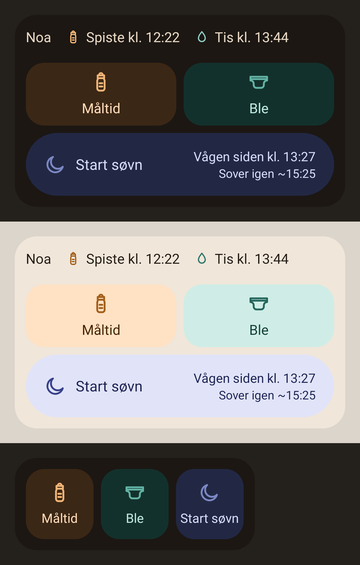
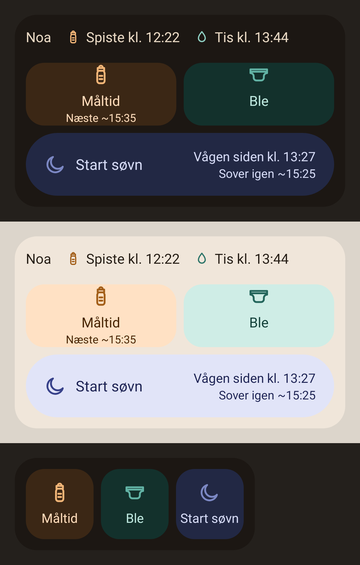
Show the feed and poop forecasts on the 4x2 widget and the watch
The 4x2 widget puts "Next ~15:35" under Feed and, when poop is regular,
"Poop ~18:00" under Diaper (both buttons keep the line so the icons stay
aligned). The watch adds a "Next feed" card while awake and a "Next feed
in 2h 45m" line on the Last fed card while asleep. Also adds the design
notes for the widget and watch forecasts to V1_ADDITIONS and DESIGN_SPEC.

Claude-Session: https://claude.ai/code/session_01KD7sVhz9GtcohHCu3rA1aR

diff --git a/app/src/main/kotlin/com/ffmathy/pooparazzi/phone/widget/LogWidget.kt b/app/src/main/kotlin/com/ffmathy/pooparazzi/phone/widget/LogWidget.kt
@@ -1,5 +1,6 @@
 package com.ffmathy.pooparazzi.phone.widget
 
+import androidx.annotation.StringRes
 import android.content.Context
 import androidx.compose.runtime.Composable
 import androidx.compose.ui.graphics.Color
@@ -303,16 +304,23 @@ private fun LogButtons(
         listOf(feedLabel, diaperLabel).all { measure.fits(it, LabelSize, layout.buttonWidth - 8.dp) } -> FaceStyle.Regular
         else -> FaceStyle.Compact
     }
+    // What the last week expects next (V1_ADDITIONS §9), under the label of the regular face only. When either button
+    // has a line, both keep its room, so the icons stay aligned.
+    val feedNext = snapshot.feedForecast?.takeIf { style == FaceStyle.Regular }
+    val poopNext = snapshot.poopForecast?.takeIf { style == FaceStyle.Regular }
+    val sub = feedNext != null || poopNext != null
+    fun described(@StringRes name: Int, spoken: String?) =
+        strings.forBaby(strings.string(name), baby).let { if (spoken == null) it else strings.string(R.string.spoken_pair, it, spoken) }
     Row(modifier) {
         val cell = GlanceModifier.defaultWeight().fillMaxHeight()
         val feed = colors.feed
-        SheetButton(HomeLaunch.Feed, feed, strings.forBaby(strings.string(R.string.widget_cd_log_feed), baby), cell) {
-            ButtonFace(XDrawables.feed, feed.strong, feedLabel, feed.onContainer, style)
+        SheetButton(HomeLaunch.Feed, feed, described(R.string.widget_cd_log_feed, feedNext?.let(strings::feedForecastSpoken)), cell) {
+            ButtonFace(XDrawables.feed, feed.strong, feedLabel, feed.onContainer, style, sub = feedNext?.let(strings::feedForecast) ?: "\u00A0".takeIf { sub })
         }
         Spacer(GlanceModifier.width(8.dp))
         val diaper = colors.diaper
-        SheetButton(HomeLaunch.Diaper, diaper, strings.forBaby(strings.string(R.string.widget_cd_log_diaper), baby), cell) {
-            ButtonFace(XDrawables.diaper, diaper.strong, diaperLabel, diaper.onContainer, style)
+        SheetButton(HomeLaunch.Diaper, diaper, described(R.string.widget_cd_log_diaper, poopNext?.let(strings::poopForecastSpoken)), cell) {
+            ButtonFace(XDrawables.diaper, diaper.strong, diaperLabel, diaper.onContainer, style, sub = poopNext?.let(strings::poopForecast) ?: "\u00A0".takeIf { sub })
         }
     }
 }
@@ -331,7 +339,7 @@ private val CompactTopSpace = 10.dp
  * the regular face's.
  */
 @Composable
-private fun ButtonFace(icon: Int, iconColor: Color?, label: String, labelColor: Color, style: FaceStyle) {
+private fun ButtonFace(icon: Int, iconColor: Color?, label: String, labelColor: Color, style: FaceStyle, sub: String? = null) {
     Column(horizontalAlignment = Alignment.CenterHorizontally, verticalAlignment = Alignment.CenterVertically) {
         if (style == FaceStyle.Compact) Spacer(GlanceModifier.height(CompactTopSpace))
         WidgetIcon(icon, iconColor, if (style == FaceStyle.Compact) 20.dp else 24.dp)
@@ -345,6 +353,7 @@ private fun ButtonFace(icon: Int, iconColor: Color?, label: String, labelColor: 
                 align = TextAlign.Center,
                 modifier = GlanceModifier.padding(horizontal = 4.dp),
             )
+            if (sub != null) WidgetText(sub, labelColor, 12.sp, maxLines = 1, align = TextAlign.Center)
         }
     }
 }

diff --git a/app/src/main/kotlin/com/ffmathy/pooparazzi/phone/widget/WidgetSnapshot.kt b/app/src/main/kotlin/com/ffmathy/pooparazzi/phone/widget/WidgetSnapshot.kt
@@ -26,6 +26,7 @@ import java.time.ZoneId
  * @property babies all babies, in order; with two or more the widgets name the current one ([babyId]).
  * @property sleepForecast the expected wake-up while asleep, else the expected next sleep (V1_ADDITIONS §9); null when
  *   the last week cannot predict it.
+ * @property feedForecast the expected next feed; [poopForecast] the expected next poop, when poop is regular enough.
  */
 data class WidgetSnapshot(
     val night: Boolean,
@@ -40,6 +41,8 @@ data class WidgetSnapshot(
     val babies: List<Baby> = listOf(Baby(Baby.FIRST_ID)),
     val babyId: String = babies.first().id,
     val sleepForecast: Expected? = null,
+    val feedForecast: Expected? = null,
+    val poopForecast: Expected? = null,
 ) {
     val asleep: Boolean get() = runningSleepStart != null
 
@@ -70,6 +73,7 @@ data class WidgetSnapshot(
             allEntries: List<Entry> = entries,
         ): WidgetSnapshot {
             val summary = summarize(entries, now, zone)
+            val week = forecast(summary)
             val sleep = summary.runningSleep
             val anyAsleep = sleep != null || allEntries.any { it.isSleep && it.isRunning }
             return WidgetSnapshot(
@@ -86,7 +90,9 @@ data class WidgetSnapshot(
                 notice = memo.notice?.takeIf { it.expiresAtMillis > now },
                 babies = settings.babies,
                 babyId = settings.selectedBaby.id,
-                sleepForecast = forecast(summary).sleep,
+                sleepForecast = week.sleep,
+                feedForecast = week.feed,
+                poopForecast = week.poop,
             )
         }
 
@@ -104,10 +110,12 @@ data class WidgetSnapshot(
 }
 
 /**
- * When the sleep forecast next changes without any new data: once its time has passed, the week's stretches that are
- * still longer give a later estimate (or "soon").
+ * When a forecast next changes without any new data: once its time has passed, the week's stretches that are still
+ * longer give a later estimate (or "soon").
  */
-fun WidgetSnapshot.forecastExpiry(now: Long): Long? = sleepForecast?.takeIf { !it.overdue }?.atMillis?.takeIf { it > now }
+fun WidgetSnapshot.forecastExpiry(now: Long): Long? = listOfNotNull(sleepForecast, feedForecast, poopForecast)
+    .filter { !it.overdue && it.atMillis > now }
+    .minOfOrNull { it.atMillis }
 
 /** When the widgets next change without any new data: the receipt or notice expiry, if any. */
 fun WidgetMemo.nextExpiry(now: Long): Long? =

diff --git a/wear/src/main/kotlin/com/ffmathy/pooparazzi/wear/main/MainScreen.kt b/wear/src/main/kotlin/com/ffmathy/pooparazzi/wear/main/MainScreen.kt
@@ -722,13 +722,36 @@ private fun statusCards(state: MainUiState, f: Formatters): List<CardModel> {
     val lastDiaperSpoken = stringResource(CoreR.string.spoken_last_diaper)
     val bothIcon = rememberBothIcon(events.pee.strong, events.poop.strong)
 
+    val feedForecast = state.feedForecast
     if (state.mode == MainMode.ASLEEP) {
         state.lastFeed?.let { feed ->
+            // The expected next feed as the card's third line (V1_ADDITIONS §9).
+            val next = feedForecast?.let { expected ->
+                expected.remainingMillis(now)
+                    ?.let { stringResource(CoreR.string.forecast_next_feed_in, f.duration.format(it)) to stringResource(CoreR.string.forecast_next_feed_in, f.duration.spoken(it)) }
+                    ?: stringResource(CoreR.string.forecast_next_feed_soon).let { it to it }
+            }
+            val spoken = f.spokenAgo(lastFeedSpoken, spokenFeedType(feed), feed.startMillis, now)
             cards += CardModel(
                 "last-feed", feed, TimeField.START, XIcons.forFeedType(feed.feedType), events.feed.strong,
                 lastFedWord, f.agoAndClock(feed.startMillis, now) + feedSideSuffix(feed),
-                f.spokenAgo(lastFeedSpoken, spokenFeedType(feed), feed.startMillis, now),
+                next?.let { stringResource(R.string.spoken_pair, spoken, it.second) } ?: spoken,
+                next?.first,
             )
+        }
+    } else {
+        // Idle, the hero shows the last feed; the expected next one gets its own card, first (V1_ADDITIONS §9). It opens
+        // the last feed, like the hero.
+        val feed = state.lastFeed
+        if (feed != null && feedForecast != null) {
+            val title = stringResource(CoreR.string.forecast_next_feed)
+            val remaining = feedForecast.remainingMillis(now)
+            val clock = f.clock.format(feedForecast.roundedAtMillis, f.zone)
+            val detail = remaining?.let { stringResource(CoreR.string.forecast_in_at, f.duration.format(it), clock) }
+                ?: stringResource(CoreR.string.forecast_soon_word)
+            val spoken = remaining?.let { stringResource(CoreR.string.forecast_next_feed_in, f.duration.spoken(it)) }
+                ?: stringResource(CoreR.string.forecast_next_feed_soon)
+            cards += CardModel("next-feed", feed, TimeField.START, XIcons.feed, events.feed.strong, title, detail, spoken)
         }
     }
     if (state.runningSleep == null) {

diff --git a/app/src/main/kotlin/com/ffmathy/pooparazzi/phone/widget/WidgetUi.kt b/app/src/main/kotlin/com/ffmathy/pooparazzi/phone/widget/WidgetUi.kt
@@ -114,6 +114,21 @@ internal class WidgetStrings(private val context: Context, private val zone: Zon
         else -> string(if (asleep) CoreR.string.forecast_wakes_at else CoreR.string.forecast_next_sleep_at, time(expected.roundedAtMillis))
     }
 
+    /** Under Feed: "Next ~15:35" ("Next soon" when due). */
+    fun feedForecast(expected: Expected): String =
+        if (expected.overdue) string(CoreR.string.forecast_feed_soon_short) else string(CoreR.string.forecast_feed_at, time(expected.roundedAtMillis))
+
+    /** Under Diaper: "Poop ~18:00" ("Poop soon" when due). */
+    fun poopForecast(expected: Expected): String =
+        if (expected.overdue) string(CoreR.string.forecast_poop_soon_short) else string(CoreR.string.forecast_poop_at, time(expected.roundedAtMillis))
+
+    /** TalkBack: "next feed expected around 15:35" / "next poop expected around 18:00", or the "soon" line. */
+    fun feedForecastSpoken(expected: Expected): String =
+        if (expected.overdue) string(CoreR.string.forecast_next_feed_soon) else string(CoreR.string.spoken_forecast_feed_at, time(expected.roundedAtMillis))
+
+    fun poopForecastSpoken(expected: Expected): String =
+        if (expected.overdue) poopForecast(expected) else string(CoreR.string.spoken_forecast_poop_at, time(expected.roundedAtMillis))
+
     /** TalkBack: "expected to wake around 05:30". */
     fun sleepForecastSpoken(expected: Expected, asleep: Boolean): String = when {
         expected.overdue -> sleepForecast(expected, asleep)

diff --git a/app/src/test/kotlin/com/ffmathy/pooparazzi/phone/WidgetSnapshotTest.kt b/app/src/test/kotlin/com/ffmathy/pooparazzi/phone/WidgetSnapshotTest.kt
@@ -43,16 +43,20 @@ class WidgetSnapshotTest {
     }
 
     @Test
-    fun theSleepToggleCarriesTheWeeksForecast() {
+    fun theButtonsCarryTheWeeksForecast() {
         // V1_ADDITIONS §9: awake, the next sleep; asleep, the wake-up; both as clock times rounded to 5 minutes.
         val idle = WidgetSamples.idle(night = true)
         assertEquals(SampleData.at(15, 25), idle.sleepForecast!!.roundedAtMillis)
+        assertEquals(SampleData.at(15, 35), idle.feedForecast!!.roundedAtMillis)
+        assertNull("poop varies too much in the sample week", idle.poopForecast)
+        // The first estimate to pass (the next sleep) refreshes the widget.
         assertEquals(idle.sleepForecast!!.atMillis, idle.forecastExpiry(SampleData.NOW_1432))
         val asleep = WidgetSamples.asleep()
         assertEquals(SampleData.at(5, 25), asleep.sleepForecast!!.roundedAtMillis)
         // One day of log is no pattern yet: no forecast, and no refresh for one.
         val oneDay = WidgetSnapshot.of(SampleData.scenario(zone), SampleData.settings, WidgetMemo(), SampleData.NOW_1432, zone, systemDark = false)
         assertNull(oneDay.sleepForecast)
+        assertNull(oneDay.feedForecast)
         assertNull(oneDay.forecastExpiry(SampleData.NOW_1432))
     }
 

diff --git a/wear/src/test/kotlin/com/ffmathy/pooparazzi/wear/screenshots/WatchScreenshots.kt b/wear/src/test/kotlin/com/ffmathy/pooparazzi/wear/screenshots/WatchScreenshots.kt
@@ -116,7 +116,7 @@ abstract class WatchScreenshots(private val lang: String) {
         after = { compose.onNode(hasScrollToIndexAction()).performScrollToIndex(4) },
     ) { MainScreen(WearSamples.mainIdle(), MainActions()) }
 
-    /** The Awake card with what the last week expects next: "Next sleep in 55m" (V1_ADDITIONS §9). */
+    /** Next feed and the Awake card with what the last week expects next: "Next sleep in 55m" (V1_ADDITIONS §9). */
     @Test
     fun s04b_mainAwakeForecast() = capture(
         "04b-main-awake-forecast",
@@ -130,6 +130,14 @@ abstract class WatchScreenshots(private val lang: String) {
         "02b-main-asleep-forecast",
         SampleData.NOW_0312,
         after = { compose.onNode(hasScrollToIndexAction()).performScrollToIndex(1) },
+    ) { MainScreen(WearSamples.mainAsleep(), MainActions()) }
+
+    /** Asleep, scrolled to Last fed: "Next feed in 2h 45m" as its third line (V1_ADDITIONS §9). */
+    @Test
+    fun s02c_mainAsleepFeedForecast() = capture(
+        "02c-main-asleep-feed-forecast",
+        SampleData.NOW_0312,
+        after = { compose.onNode(hasScrollToIndexAction()).performScrollToIndex(3) },
     ) { MainScreen(WearSamples.mainAsleep(), MainActions()) }
 
     @Test

diff --git a/wear/src/main/kotlin/com/ffmathy/pooparazzi/wear/state/WearState.kt b/wear/src/main/kotlin/com/ffmathy/pooparazzi/wear/state/WearState.kt
@@ -52,6 +52,8 @@ data class MainUiState(
     val babyId: String = Baby.FIRST_ID,
     /** The expected wake-up while asleep, else the expected next sleep (V1_ADDITIONS §9); null when unpredictable. */
     val sleepForecast: Expected? = null,
+    /** The expected next feed (V1_ADDITIONS §9); null when unpredictable. */
+    val feedForecast: Expected? = null,
 ) {
     val mode: MainMode
         get() = if (runningSleep != null) MainMode.ASLEEP else MainMode.IDLE
@@ -81,8 +83,7 @@ data class MainUiState(
             sync = sync,
             babies = babies,
             babyId = babyId,
-            sleepForecast = forecast(summary).sleep,
-        )
+        ).let { state -> forecast(summary).let { state.copy(sleepForecast = it.sleep, feedForecast = it.feed) } }
 
         /** Before the first database read. */
         fun loading(now: Long, zone: ZoneId) = MainUiState(

diff --git a/app/src/test/kotlin/com/ffmathy/pooparazzi/phone/WidgetBabiesTest.kt b/app/src/test/kotlin/com/ffmathy/pooparazzi/phone/WidgetBabiesTest.kt
@@ -84,7 +84,8 @@ class WidgetBabiesTest {
     fun bothWidgetsNameTheBabyToTalkBack() {
         val log = render(DpSize(358.dp, 208.dp)) { LogWidgetContent(WidgetSamples.twins(night = true)) }.descriptions()
         assertTrue(log.toString(), "Log diaper for Noa" in log)
-        assertTrue(log.toString(), "Log feed for Noa" in log)
+        // The feed button goes on with what the week expects next (V1_ADDITIONS §9).
+        assertTrue(log.toString(), log.any { it.startsWith("Log feed for Noa") })
         assertTrue(log.toString(), log.any { it.startsWith("Start sleep for Noa") })
 
         val quick = render(DpSize(171.dp, 100.dp)) { QuickWidgetContent(WidgetSamples.twins(night = true)) }.descriptions()

diff --git a/scripts/readme_screenshots.py b/scripts/readme_screenshots.py
@@ -78,6 +78,7 @@ WATCH = {
     "03-main-after-breast.png": "main-after-breast",
     "04b-main-awake-forecast.png": "main-awake-forecast",
     "02b-main-asleep-forecast.png": "main-asleep-forecast",
+    "02c-main-asleep-feed-forecast.png": "main-asleep-feed-forecast",
     "05-feed-type.png": "feed-type",
     "06-side-ticked.png": "side",
     "07-diaper.png": "diaper",

diff --git a/README.md b/README.md
@@ -18,7 +18,7 @@ Only the time is ever required: the feed type, the breast side, pee/poop and the
 - **Formula with an amount**: after Formula (on the phone), an optional slider sets how much was given, in **ml** (10 ml steps up to 300 ml), or in **fl oz** (½ oz steps up to 10 oz) where the region measures in ounces (the US, Liberia, Myanmar). Leaving it at "No amount" records just the time. The amount shows on the receipt, in History ("12:22 · 120 ml"), on the watch's Today list, and can be changed in the edit sheet.
 - **Diapers**: Pee and Poop are independent checkboxes, both optional (nothing ticked is a plain change). With Poop on, pick an optional **colour** (yellow, green, brown, black, red, pale) and **texture** (watery, seedy, mushy, formed, hard); red, black and pale show a gentle "talk to your doctor" hint.
 - **History, edit and undo**: a day view with a 24-hour ribbon and day totals; tap any entry to edit its times, type, side, formula amount or diaper details, or delete it; add a past entry; every log shows an **Undo** receipt: on the phone a sheet with the logged time, Undo, chips to move it by a few minutes, Edit and Done (no timeout); on the watch a Logged screen with Undo.
-- **What comes next**: Home's buttons show what this baby's last 7 days expect next: under Feed "in 1h 05m", under Start sleep when the next sleep is due and, while asleep, under Woke up when the baby is expected to wake. Under Diaper it shows the next poop when poop has been regular enough to predict. Each estimate is the median of the past week's comparable stretches (sleeps, wake windows, gaps between feeds or poops) that began at about the same time of day and lasted longer than the current one so far. With fewer than 5 such stretches, or too much spread, no estimate is shown. The sleep estimate also shows on the 4×2 widget ("Next sleep ~15:25" under "Awake since 13:27", "Wakes ~05:25" while asleep) and on the watch ("Next sleep in 55m" on the Awake card, "Wakes ~05:25" under Adjust start).
+- **What comes next**: Home's buttons show what this baby's last 7 days expect next: under Feed "in 1h 05m", under Start sleep when the next sleep is due and, while asleep, under Woke up when the baby is expected to wake. Under Diaper it shows the next poop when poop has been regular enough to predict. Each estimate is the median of the past week's comparable stretches (sleeps, wake windows, gaps between feeds or poops) that began at about the same time of day and lasted longer than the current one so far. With fewer than 5 such stretches, or too much spread, no estimate is shown. The 4×2 widget shows them too, as clock times: "Next ~15:35" under Feed, "Poop ~…" under Diaper when predictable, and "Next sleep ~15:25" or "Wakes ~05:25" under the sleep status. On the watch, scrolled: a "Next feed in 1h 05m" card (or a line on the Last fed card while asleep), "Next sleep in 55m" on the Awake card and "Wakes ~05:25" under Adjust start.
 - **Statistics**: from History's chart button, average feeds, pee, poop and sleep per day for the last 7 days next to the last 30 days (or 90 days, all days, or dates you choose), with a bar chart that marks the last 7 days. Only whole days up to yesterday count (until the first whole day, today so far, so a single entry already shows), and days when nothing was logged are left out instead of counting as zero. With several babies it shows the current baby's.
 - **Several babies** (twins, siblings): add and rename them in Settings › Babies, and switch the baby you log for from Home's top bar or the watch's baby button. Each device has its own current baby; a sleep runs per baby, and every sleeping baby keeps its notification.
 - **Phone ↔ watch sync** over the Wearable **Data Layer**. Both apps log offline and merge by last-writer-wins; the babies' names and the language follow the phone. The sync state is a small icon, not text: a watch (and, while signed in, a cloud for the backup) under the name on the phone, a phone on the watch, each marked with a tick, "…", a slash or "!" (tap "!" to retry); TalkBack reads the full status.
@@ -103,9 +103,9 @@ All screenshots are rendered by the Roborazzi screenshot tests under Robolectric
 |:---:|:---:|:---:|:---:|:---:|
 | <img src="docs/screenshots/en/watch-undone.png" width="140" alt="Watch undone"> | <img src="docs/screenshots/en/watch-today.png" width="140" alt="Watch today list"> | <img src="docs/screenshots/en/watch-tile.png" width="140" alt="Watch tile"> | <img src="docs/screenshots/en/watch-tile-asleep.png" width="140" alt="Watch tile while asleep"> | <img src="docs/screenshots/en/watch-complications.png" width="140" alt="Watch complications preview"> |
 
-| Next sleep (scrolled) | Expected wake-up (scrolled, asleep) |
-|:---:|:---:|
-| <img src="docs/screenshots/en/watch-main-awake-forecast.png" width="170" alt="Watch Awake card with Next sleep in 55m"> | <img src="docs/screenshots/en/watch-main-asleep-forecast.png" width="170" alt="Watch Adjust start with Wakes ~05:25"> |
+| Next feed and sleep (scrolled) | Expected wake-up (scrolled, asleep) | Next feed (scrolled, asleep) |
+|:---:|:---:|:---:|
+| <img src="docs/screenshots/en/watch-main-awake-forecast.png" width="170" alt="Watch Next feed card, in 1h 05m, and the Awake card with Next sleep in 55m"> | <img src="docs/screenshots/en/watch-main-asleep-forecast.png" width="170" alt="Watch Adjust start with Wakes ~05:25"> | <img src="docs/screenshots/en/watch-main-asleep-feed-forecast.png" width="170" alt="Watch Last fed card with Next feed in 2h 45m"> |
 
 | Main, two babies | Baby picker | Tile, second baby |
 |:---:|:---:|:---:|

diff --git a/docs/design/V1_ADDITIONS.md b/docs/design/V1_ADDITIONS.md
@@ -477,6 +477,20 @@ button's onContainer at 78 %, one line that shrinks to fit rather than wrap):
 Times are rounded up to 5 minutes (an estimate, not a promise); under 5 minutes, or past every comparable stretch, the
 line reads "soon" / "snart" ("poop soon" / "bæ snart"). A button the week cannot predict has no second line.
 
+**The other surfaces** (one more line each where there is room):
+
+| Surface | Feed | Diaper | Sleep, awake | Sleep, asleep |
+|---|---|---|---|---|
+| 4×2 widget (and the cover screen), 12–13 sp | under the Feed label: "Next ~15:35" / "Næste ~15:35" | under Diaper, when poop is predictable: "Poop ~18:00" / "Bæ ~18:00" | under the status: "Next sleep ~15:25" / "Sover igen ~15:25" | "Wakes ~05:25" / "Vågner ~05:25" |
+| Watch Main, scrolled | idle: a "Next feed" card first, "in 1h 05m · ~15:35" (opens the last feed); asleep: the Last fed card's third line "Next feed in 2h 45m" | none | Awake card, third line: "Next sleep in 55m" / "Sover igen om 55m" | Adjust start's secondary line: "Wakes ~05:25" (small watches: under "Asleep since 02:05") |
+
+The widget shows clock times only (it does not tick), rounded to 5 minutes, and refreshes once an estimate has passed.
+Feed and Diaper keep the same face: when either has a line, both reserve it, so the icons stay aligned; the compact
+(two-line label) face has no room and shows none. The watch's Adjust start line is a clock time too, so the Danish fits
+on one line. TalkBack: "Log feed, next feed expected around 15:35", "expected to wake around 05:25", "Next sleep in 55
+minutes". The 3×1 widget, the tile, the complications and the watch's first screen (its 60 dp Feed and Diaper buttons
+are full) have no room and show none.
+
 **The estimate** (`forecast` in `:core`, `domain/Forecast.kt`). There is no validated model for predicting one baby's
 sleep or feeds (wake-window charts are rules of thumb, and babies differ widely), so the app only looks at this baby's
 own last 7 days, which is recent enough to follow a growing baby:

diff --git a/docs/design/DESIGN_SPEC.md b/docs/design/DESIGN_SPEC.md
@@ -304,7 +304,7 @@ Receipt rules:
 
 **Feed and Diaper buttons**: 169 × 96, full pill r 48 (pressed r 16). Fill FEED / DIAPER container. Content row: icon 32 (event strong) + 12 + headlineSmall "Feed" / "Diaper" (event onContainer). **Unchanged in lights-down.**
 
-**Forecast line**: under the label of Feed, Diaper and the Sleep toggle, what the last 7 days expect next ("in 1h 05m"; Diaper "poop in 3h"; Woke up the expected wake-up). See V1_ADDITIONS §9.
+**Forecast line**: under the label of Feed, Diaper and the Sleep toggle, what the last 7 days expect next ("in 1h 05m"; Diaper "poop in 3h"; Woke up the expected wake-up). See V1_ADDITIONS §9, which also puts the estimates on the 4×2 widget and the watch.
 
 **Sleep toggle**: 350 × 96, a button whose name changes with its state (it exposes no separate on/off state; §9.4).
 - Unchecked: r 48, SLEEP container, `sleep` 32 SLEEP strong + 12 + "Start sleep" headlineSmall SLEEP onContainer.
